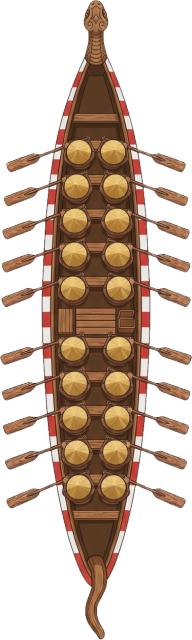
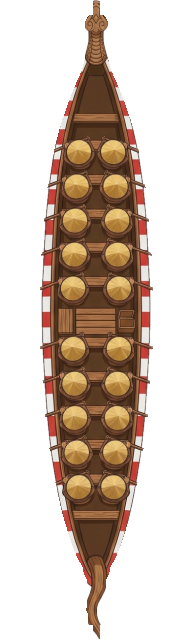
Ghe động: mái chèo quạt, nước bắn, sóng mũi, lấp lánh
Claude-Session: https://claude.ai/code/session_01Rw4Gf3eqcFs32RFHEV5mZN

diff --git a/src/game/ve/Ghe.tsx b/src/game/ve/Ghe.tsx
@@ -140,3 +140,63 @@ export function VetNuoc({ w, manh }: { w: number; manh: number }) {
     />
   );
 }
+
+// ---------- Ghe ảnh (Gemini vẽ, đã gỡ mái chèo) + mái chèo động ----------
+// Ảnh public/assets/ghe/cap0-3.png cao 640, ngang 184-192; 10 hàng tay chèo cùng vị trí ở cả 4 kiểu ghe.
+const HANG_CHEO = [0.255, 0.305, 0.355, 0.406, 0.458, 0.545, 0.598, 0.649, 0.701, 0.759];
+const VB_W = 184;
+const VB_H = 640;
+const MEP = 38; // nửa bề ngang thân ghe (đơn vị ảnh)
+const DAI = 64; // chiều dài mái chèo
+
+// chỗ lấp lánh trên thân (tỉ lệ ngang, dọc), cấp càng cao càng nhiều
+const LAP_LANH = [
+  [0.42, 0.2], [0.6, 0.33], [0.38, 0.47], [0.62, 0.58], [0.45, 0.7], [0.58, 0.82], [0.5, 0.08], [0.35, 0.62],
+];
+
+export const GheAnh = memo(function GheAnh({ cap, w, h, nhip, nhanh }: { cap: number; w: number; h: number; nhip: number; nhanh: boolean }) {
+  const c = Math.min(3, Math.max(0, cap));
+  const cx = VB_W / 2;
+  const nhipS = `${nhip}s`;
+  const soSang = c === 0 ? 0 : c === 1 ? 3 : c === 2 ? 5 : 8;
+  return (
+    <div className="relative" style={{ width: w, height: h }}>
+      {/* sóng mũi ghe */}
+      <div className="song-mui" style={{ width: w * 1.3, height: h * 0.16, left: -w * 0.15, top: h * 0.02, animationDuration: nhipS }} />
+      <svg className="absolute inset-0 overflow-visible" width={w} height={h} viewBox={`0 0 ${VB_W} ${VB_H}`}>
+        {HANG_CHEO.map((t, i) => {
+          const y = t * VB_H;
+          return (
+            <g key={i}>
+              {/* trái: gốc ở mép thân, đầu mái chèo hướng ra ngoài, hơi chếch về đuôi */}
+              <g className="mc-t" style={{ transformOrigin: `${cx - MEP + 6}px ${y}px`, animationDuration: nhipS }}>
+                <line x1={cx - MEP + 6} y1={y} x2={cx - MEP - DAI} y2={y + 16} stroke="#6b4423" strokeWidth="4.5" strokeLinecap="round" />
+                <ellipse cx={cx - MEP - DAI} cy={y + 16} rx="10" ry="4.5" fill="#8a5a2b" stroke="#4a2e12" strokeWidth="1.5" transform={`rotate(13 ${cx - MEP - DAI} ${y + 16})`} />
+                <circle className="te-nuoc" cx={cx - MEP - DAI - 4} cy={y + 18} r="11" style={{ animationDuration: nhipS }} />
+              </g>
+              <g className="mc-p" style={{ transformOrigin: `${cx + MEP - 6}px ${y}px`, animationDuration: nhipS }}>
+                <line x1={cx + MEP - 6} y1={y} x2={cx + MEP + DAI} y2={y + 16} stroke="#6b4423" strokeWidth="4.5" strokeLinecap="round" />
+                <ellipse cx={cx + MEP + DAI} cy={y + 16} rx="10" ry="4.5" fill="#8a5a2b" stroke="#4a2e12" strokeWidth="1.5" transform={`rotate(-13 ${cx + MEP + DAI} ${y + 16})`} />
+                <circle className="te-nuoc" cx={cx + MEP + DAI + 4} cy={y + 18} r="11" style={{ animationDuration: nhipS }} />
+              </g>
+            </g>
+          );
+        })}
+      </svg>
+      <img src={`/assets/ghe/cap${c}.png`} width={w} height={h} alt="" className={`relative block ${c === 2 ? 'sang-hong' : c === 3 ? 'sang-vang' : ''}`} />
+      {/* ánh kim lấp lánh */}
+      {LAP_LANH.slice(0, soSang).map(([x, y], i) => (
+        <span key={i} className="lap-lanh-sao" style={{ left: x * w, top: y * h, animationDelay: `${(i * 0.37) % 1.6}s` }}>
+          ✦
+        </span>
+      ))}
+      {/* bọt nước dọc hai mạn khi ghe lao nhanh */}
+      {nhanh && (
+        <>
+          <div className="bot-man" style={{ left: -w * 0.1, top: h * 0.25, height: h * 0.6 }} />
+          <div className="bot-man" style={{ right: -w * 0.1, top: h * 0.25, height: h * 0.6, animationDelay: '0.2s' }} />
+        </>
+      )}
+    </div>
+  );
+});

diff --git a/src/index.css b/src/index.css
@@ -127,7 +127,40 @@ body,
 }
 
 /* Nhịp chèo: ghe nhún nhẹ theo nhịp; Hào Quang / Rồng Vàng có vầng sáng */
-.nhip-cheo { display: block; animation: nhip-cheo 0.95s ease-in-out infinite; }
-@keyframes nhip-cheo { 0%, 100% { transform: translateY(0) scaleY(1); } 50% { transform: translateY(-5px) scaleY(1.015); } }
 .sang-hong { filter: drop-shadow(0 0 14px rgba(255, 90, 190, 0.9)) drop-shadow(0 0 30px rgba(255, 90, 190, 0.5)); }
 .sang-vang { filter: drop-shadow(0 0 14px rgba(255, 215, 80, 0.95)) drop-shadow(0 0 34px rgba(255, 215, 80, 0.55)); }
+
+/* Mái chèo: quạt đồng loạt. Kéo nhanh (đầu mái chèo từ phía mũi về phía đuôi), đưa về chậm hơn */
+.mc-t, .mc-p { transform-box: view-box; animation: mc-t 0.95s cubic-bezier(0.5, 0, 0.5, 1) infinite; }
+.mc-p { animation-name: mc-p; }
+@keyframes mc-t { 0%, 100% { transform: rotate(30deg); } 42% { transform: rotate(-24deg); } }
+@keyframes mc-p { 0%, 100% { transform: rotate(-30deg); } 42% { transform: rotate(24deg); } }
+/* nước bắn ở đầu mái chèo lúc kéo */
+.te-nuoc { fill: rgba(255, 255, 255, 0.9); stroke: rgba(255, 170, 220, 0.8); stroke-width: 3; transform-box: fill-box; transform-origin: center; animation: te-nuoc 0.95s ease-out infinite; }
+@keyframes te-nuoc {
+  0%, 6% { opacity: 0; transform: scale(0.3); }
+  16% { opacity: 0.95; transform: scale(1); }
+  42% { opacity: 0; transform: scale(1.8); }
+  100% { opacity: 0; transform: scale(1.8); }
+}
+/* sóng trắng toả ở mũi ghe */
+.song-mui {
+  position: absolute; pointer-events: none;
+  background: radial-gradient(ellipse 50% 60% at 50% 30%, rgba(255,255,255,0.75), rgba(255,255,255,0.25) 50%, rgba(255,255,255,0) 72%);
+  animation: song-mui 0.95s ease-in-out infinite alternate;
+}
+@keyframes song-mui { from { transform: scale(0.85, 0.8); opacity: 0.6; } to { transform: scale(1.1, 1.05); opacity: 1; } }
+/* ánh kim lấp lánh */
+.lap-lanh-sao {
+  position: absolute; color: #fffbe6; font-size: 22px; line-height: 1; pointer-events: none;
+  text-shadow: 0 0 8px #fff, 0 0 14px #ffd84a;
+  transform: translate(-50%, -50%) scale(0); animation: lap-lanh-sao 1.6s ease-in-out infinite;
+}
+@keyframes lap-lanh-sao { 0%, 100% { transform: translate(-50%, -50%) scale(0) rotate(0deg); opacity: 0; } 15% { transform: translate(-50%, -50%) scale(1.2) rotate(45deg); opacity: 1; } 35% { transform: translate(-50%, -50%) scale(0) rotate(90deg); opacity: 0; } }
+/* bọt nước dọc mạn khi lao nhanh */
+.bot-man {
+  position: absolute; width: 18px; pointer-events: none; border-radius: 9px;
+  background: repeating-linear-gradient(180deg, rgba(255,255,255,0.85) 0 6px, rgba(255,255,255,0) 6px 18px);
+  animation: bot-man 0.35s linear infinite; opacity: 0.8;
+}
+@keyframes bot-man { from { background-position-y: 0; } to { background-position-y: 18px; } }

diff --git a/src/game/GameStage.tsx b/src/game/GameStage.tsx
@@ -9,7 +9,7 @@ import type { GheView, View } from './dua';
 import { GAME } from './config';
 import { mauTinh } from './tinh';
 import { saoText } from './chang';
-import { VetNuoc } from './ve/Ghe';
+import { GheAnh, VetNuoc } from './ve/Ghe';
 import { NenSong } from './ve/Song';
 
 // tâm 6 làn: nằm gọn trong lòng sông (ảnh nền: bờ mỗi bên 170 px, nước 170-910)
@@ -19,7 +19,6 @@ const TAM = 420; // ghe càng xa càng lùi xuống, tối đa chừng này px (
 // Ghe là ảnh Gemini vẽ (public/assets/ghe/cap0-3.png, đã tách nền): cao theo cấp, ngang = cao × tỉ lệ ảnh
 const CAO_GHE = [250, 275, 295, 315];
 const TI_LE_GHE = 0.29;
-const anhGhe = (cap: number) => `/assets/ghe/cap${Math.min(3, Math.max(0, cap))}.png`;
 
 const vien = (mau: string, d = 4) =>
   ({ textShadow: `0 ${d}px 0 #2a0d18, ${d}px 0 0 #2a0d18, -${d}px 0 0 #2a0d18, 0 -${d}px 0 #2a0d18, ${d}px ${d}px 0 #2a0d18, -${d}px ${d}px 0 #2a0d18, ${d}px -${d}px 0 #2a0d18, -${d}px -${d}px 0 #2a0d18, 0 ${d * 2}px 0 #0006`, color: mau }) as const;
@@ -86,7 +85,7 @@ export function GameStage({ game }: { game: GameState }) {
             {duoi.map((g) => (
               <div key={g.tinh} className="flex flex-col items-center">
                 <div className={g.tangToc ? 'lap-lanh' : ''}>
-                  <img src={anhGhe(g.cap)} width={110 * TI_LE_GHE} height={110} alt="" />
+                  <GheAnh cap={g.cap} w={110 * TI_LE_GHE} h={110} nhip={0.8} nhanh={false} />
                 </div>
                 <div className="mt-1 whitespace-nowrap rounded-full border-2 bg-[#0b2530e6] px-3 text-[22px] font-bold" style={{ borderColor: mauTinh(g.tinh).vien }}>
                   {g.hang}. {g.ten}
@@ -249,14 +248,7 @@ function GheChinh({ g, dauM, nuocRut }: { g: GheView; dauM: number; nuocRut: boo
       )}
       {/* lượn theo dòng sông: mỗi làn lệch nhịp nhau */}
       <div className="luon" style={{ animationDuration: `${nuocRut || g.tangToc ? 2.2 : 3.4}s`, animationDelay: `${-g.lan * 0.7}s` }}>
-        <img
-          src={anhGhe(g.cap)}
-          width={w}
-          height={h}
-          alt=""
-          className={`nhip-cheo ${g.cap === 2 ? 'sang-hong' : g.cap === 3 ? 'sang-vang' : ''}`}
-          style={{ animationDuration: `${g.tangToc ? 0.45 : nuocRut ? 0.6 : 0.95}s` }}
-        />
+        <GheAnh cap={g.cap} w={w} h={h} nhip={g.tangToc ? 0.45 : nuocRut ? 0.6 : 0.95} nhanh={g.tangToc || nuocRut} />
       </div>
       {g.caChep && (
         <div className="absolute left-1/2 top-[30%] -translate-x-1/2 text-center">

diff --git a/CLAUDE.md b/CLAUDE.md
@@ -38,4 +38,5 @@ Game đua ghe ngo cho TikTok LIVE: 34 tỉnh thành thi nhau, người xem gõ t
 - Làm giống cấu trúc game gốc, kể cả quà làm ghe tăng tốc (2026-11-16). Khác Ai Là Trạng Nguyên (ở đó quà không cho lợi thế).
 - Hình vẽ tạm bằng code, chủ kênh có thể thay ảnh tự vẽ sau (2026-11-16).
 - Nền sông 10 chặng dùng ảnh Gemini vẽ (2026-11-16): public/assets/song/<id chặng>.jpg, 1080x960, đã xoá dấu ngôi sao. Các tấm lật ngược xen kẽ để chỗ nối khớp. Lòng sông ảnh gốc hẹp (300-500 px) nên đã nới mặt nước ra 170-910 px, giữ 170 px bờ sát nước mỗi bên; 6 làn ghe đặt trong khoảng đó (`LAN_X` trong GameStage.tsx). Ảnh gốc chưa nới: chưa lưu trong repo. Giữ nguyên ảnh Vịnh Hạ Long dù có hàng dừa giữa biển (chủ kênh chọn).
-- Ghe dùng ảnh Gemini vẽ thay ghe SVG (2026-11-16, chủ kênh chê ghe cũ xấu): cấp 0 ghe gỗ sọc đỏ trắng đầu rắn, cấp 1 ghe rồng đỏ, cấp 2 ghe rồng tím bờm hồng (sáng hồng), cấp 3 Rồng Vàng (sáng vàng). Ghe lượn hình sóng theo dòng sông, mũi nghiêng theo hướng lượn (`.luon` trong index.css), nhún theo nhịp chèo.
+- Ghe dùng ảnh Gemini vẽ thay ghe SVG (2026-11-16, chủ kênh chê ghe cũ xấu): cấp 0 ghe gỗ sọc đỏ trắng đầu rắn, cấp 1 ghe rồng đỏ, cấp 2 ghe rồng tím bờm hồng (sáng hồng), cấp 3 Rồng Vàng (sáng vàng). Ghe lượn hình sóng theo dòng sông, mũi nghiêng theo hướng lượn (`.luon` trong index.css).
+- Hiệu ứng động của ghe (2026-11-16, chủ kênh muốn giống game gốc): đã gỡ mái chèo vẽ sẵn trong ảnh, vẽ lại 10 cặp mái chèo SVG quạt đồng loạt theo nhịp (nhanh hơn khi nước rút / tăng tốc), nước bắn trắng hồng ở đầu mái chèo, sóng trắng ở mũi, ánh kim lấp lánh (cấp càng cao càng nhiều), bọt dọc mạn khi lao nhanh. Component `GheAnh` trong ve/Ghe.tsx.
